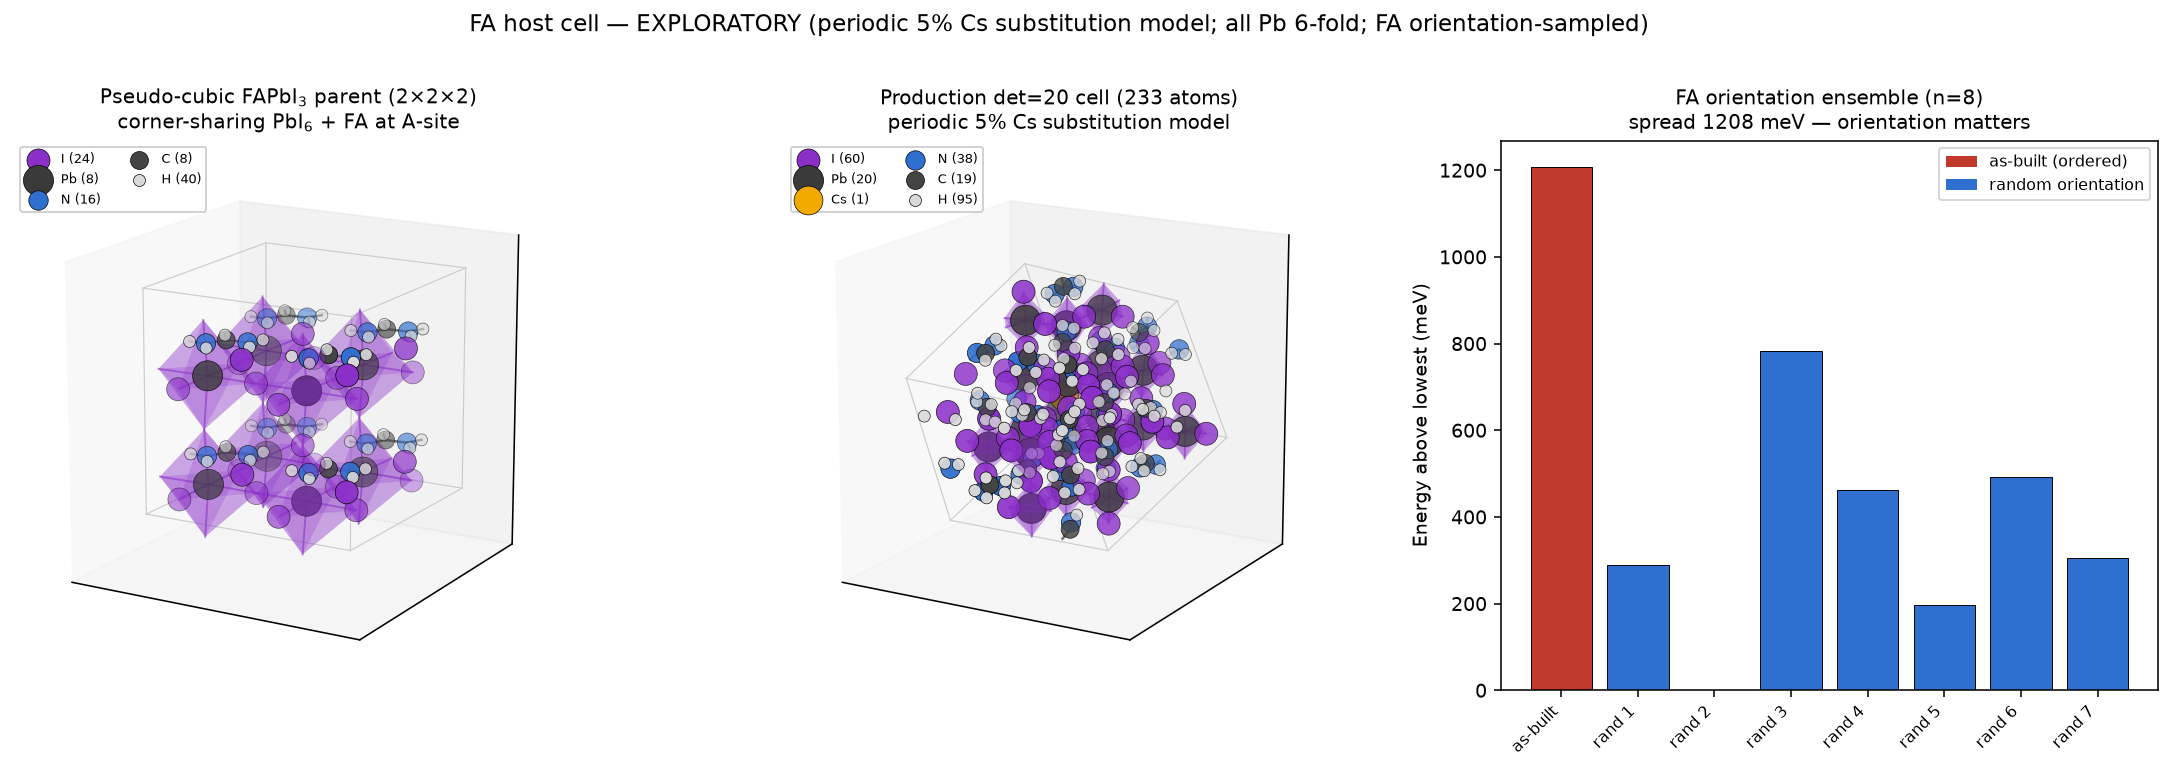
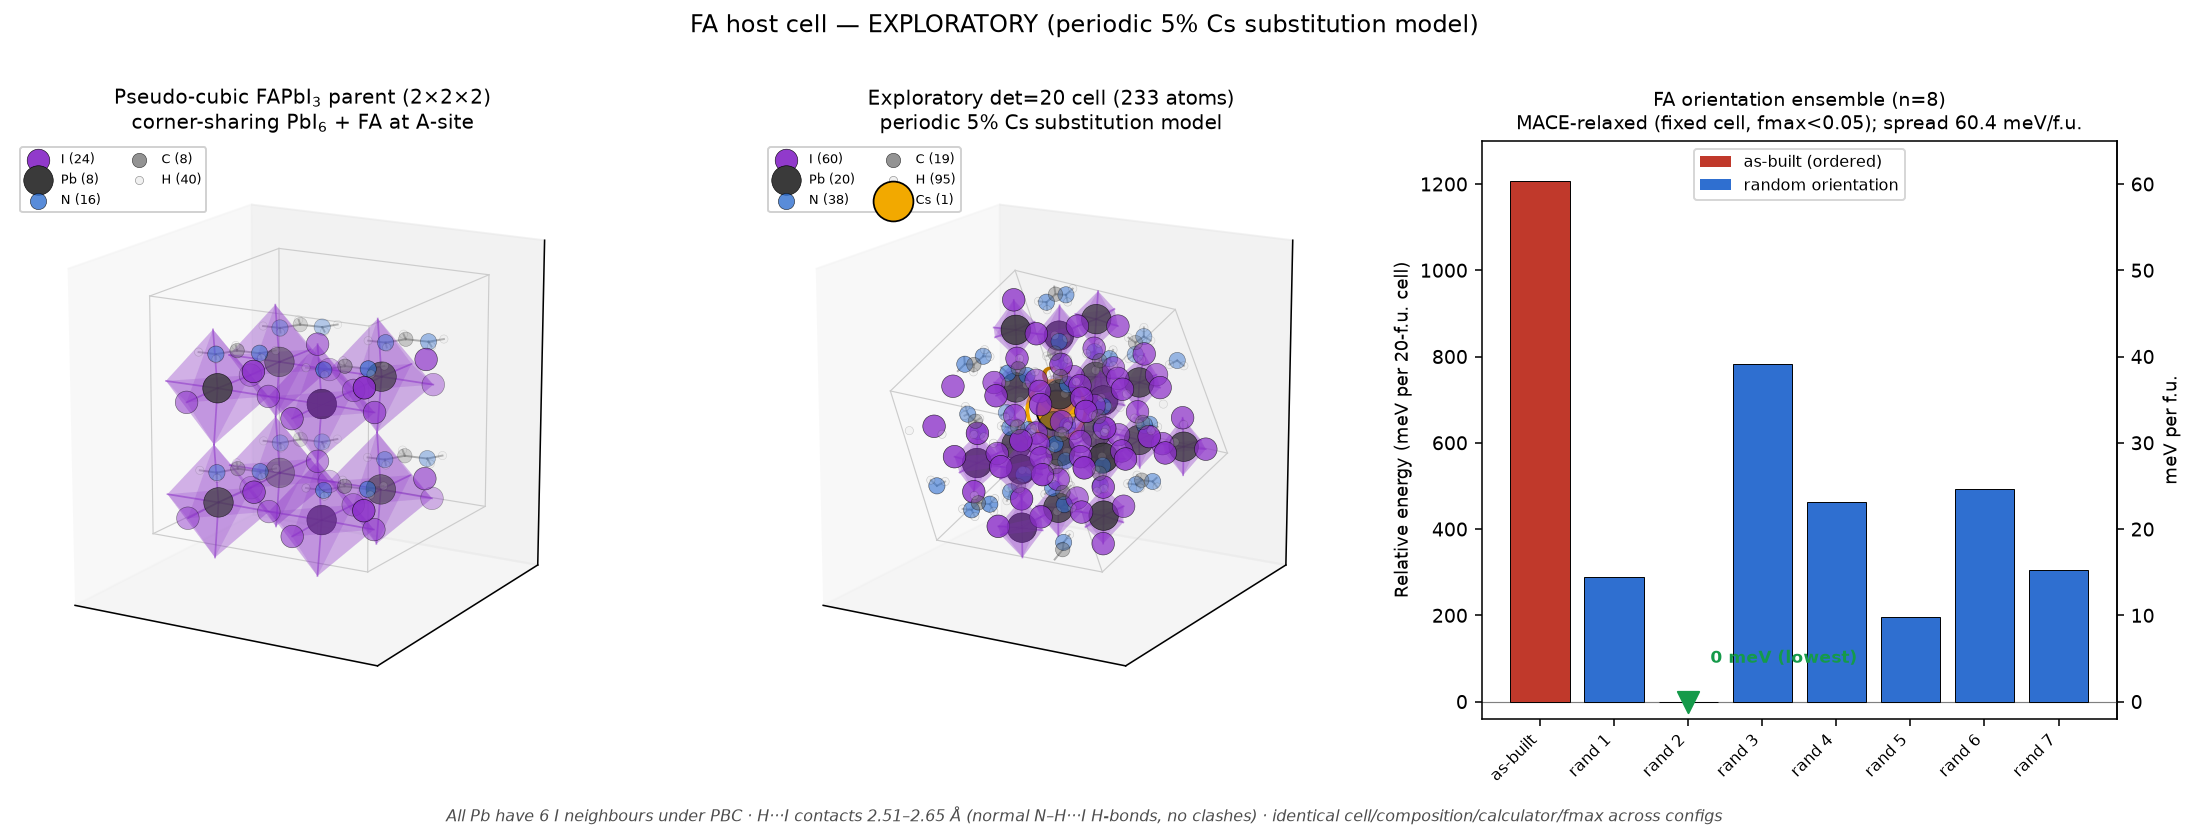
FA figure+report: 2nd review pass (relaxed-energy proof, per-f.u. norm, Cs highlight)
Figure fixes:
- rand 2 (lowest) marked "0 meV (lowest)" instead of reading as missing data
- "Production" -> "Exploratory det=20 cell" (consistent with EXPLORATORY tag)
- energy axis normalized: meV per 20-f.u. cell + secondary meV/f.u. axis (60.4)
- title states energies are MACE-relaxed (fixed cell, fmax<0.05), not single-point
- Cs highlighted with halo + label; FA/H shrunk and made translucent
- footnote: "all Pb have 6 I neighbours under PBC" + H-I evidence

Report: added ensemble-validation section proving the 60.4 meV/f.u. spread is
methodologically sound (identical cell/composition/calculator/fmax, each config
independently relaxed) and NOT a close-contact artifact (shortest H...I 2.51-2.65 A,
normal N-H...I range; r(contact,dE)=-0.27). "Production" -> "candidate" cells.

diff --git a/results/fa_host/REPORT_fa_baseline.md b/results/fa_host/REPORT_fa_baseline.md
@@ -75,19 +75,34 @@ rotation** (Shoemake quaternion) about its own C, and each config is relaxed
 | as-built (ordered) | −1064.33 | **1208** | ✓ | ✓ |
 | 7 random orientations | −1064.7 … −1065.5 | 0 … 780 | ✓ | ✓ |
 
-**Ensemble energy spread ≈ 1208 meV.** The as-built ordered orientation is the
-*highest-energy* configuration — direct confirmation that a single ordered
-orientation is unacceptable. The lowest-energy config (seed 2) is carried forward as
-the production pristine cell. All 8 configs relaxed with every Pb 6-fold coordinated
-and every FA intact (no dissociation).
+**Ensemble energy spread ≈ 1208 meV per 20-f.u. cell = 60.4 meV/f.u.** The as-built
+ordered orientation is the *highest-energy* configuration — direct confirmation that
+a single ordered orientation is unacceptable. The lowest-energy config (seed 2) is
+carried forward as the candidate pristine cell. Every Pb has 6 I neighbours under PBC
+in all 8 configs, and every FA is intact (no dissociation).
 
-*Caveat:* this is a static-relaxation ensemble of random initial orientations, not
+**These are relaxed energies, not raw single-points — and the spread is not a
+close-contact artifact.** The ensemble was validated on both counts the review
+raised:
+- **Identical protocol:** all 8 configs share the same cell (to 1e-6 Å), the same
+  composition (C₁₉H₉₅CsI₆₀N₃₈Pb₂₀, 233 atoms), the same calculator (MACE-MP-0 medium
+  float64), and the same convergence criterion; each was **independently relaxed**
+  (positions, fixed cell) and re-checked to have max|F| < 0.05 eV/Å. So the bars are
+  relaxed-energy differences of independent orientations, not single-points of
+  rotated geometries.
+- **No H–I clash:** the shortest intermolecular H⋯I contact in the ensemble is
+  2.51–2.65 Å — the normal N–H⋯I hydrogen-bond window (a pathological clash would be
+  < 2.0 Å) — and the correlation between shortest contact and energy is weak
+  (Pearson r = −0.27). The spread therefore reflects genuine orientation-dependent
+  hydrogen-bonding energetics, not steric artifacts.
+
+*Caveat:* this is a static-relaxation ensemble of random *initial* orientations, not
 a thermally decorrelated MD ensemble. The MD ensemble (W2-2) needs the GPU and is
 deferred. What this establishes now: (i) the framework is robust across orientations
-(Pb₆, FA intact everywhere), and (ii) orientation is energetically first-order, so
-the Stage-4 migration matrix must sample it, not fix it.
+(6-fold Pb under PBC, FA intact everywhere), and (ii) orientation is energetically
+first-order (60 meV/f.u.), so the Stage-4 migration matrix must sample it, not fix it.
 
-## W2-1d — Production cells
+## W2-1d — Candidate cells (exploratory)
 
 | cell | formula | atoms | notes |
 |---|---|---|---|
@@ -96,7 +111,7 @@ the Stage-4 migration matrix must sample it, not fix it.
 
 `x_Cs = 1/20 = 5%`. Element-count asserts enforced in the driver and passing.
 
-![FA host structures: corner-sharing PbI6 framework (left), production 233-atom cell (centre), FA orientation ensemble energies (right)]({{artifact:art_cf7fb785-e29d-4dc7-99fa-717dd66edf3d}})
+![FA host structures: corner-sharing PbI6 framework (left), candidate 233-atom cell (centre), FA orientation ensemble energies (right)]({{artifact:art_cf7fb785-e29d-4dc7-99fa-717dd66edf3d}})
 
 ## DFT follow-ups required before this cell enters a formal calculation
 
@@ -117,7 +132,7 @@ the Stage-4 migration matrix must sample it, not fix it.
 ## Files
 
 - `fa_parent_relaxed.extxyz` / `.cif`, `fa_parent_2x2x2.cif` — MACE-relaxed parent
-- `fa19cs1_pb20i60_233.extxyz` / `.cif` — production pristine cell (lowest-E orientation)
+- `fa19cs1_pb20i60_233.extxyz` / `.cif` — candidate pristine cell (lowest-E orientation)
 - `fa19cspb20i59_232_vI.extxyz` / `.cif` — V_I cell, FA₁₉CsPb₂₀I₅₉ (232 atoms)
 - `fa_ensemble_00..07.extxyz` — the 8 relaxed orientation configs
 - `fa_host_build.json` — full record (HNF table, d_min, ensemble, asserts, coordination)
